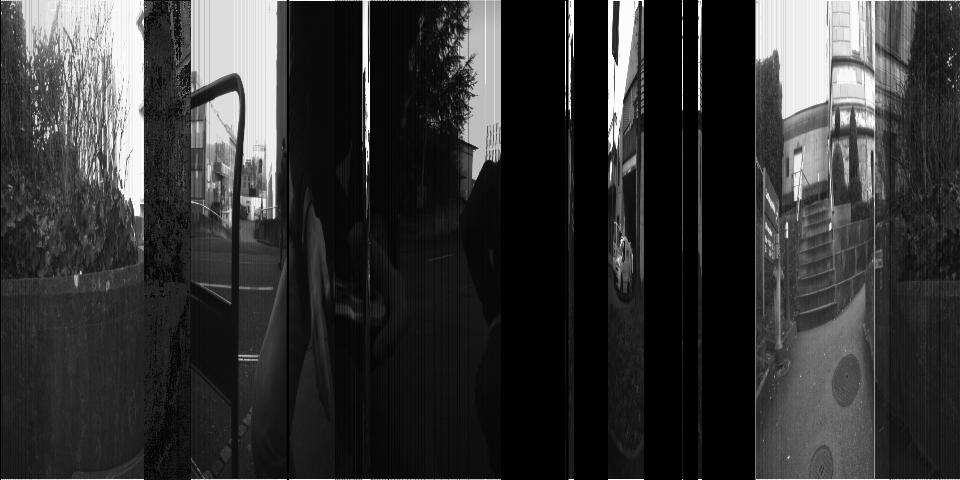
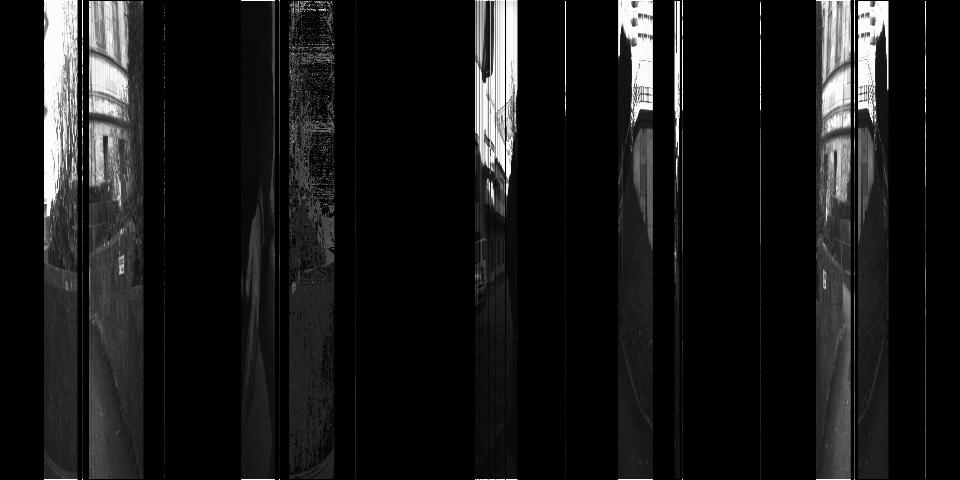
Julias clean up :), the back interpolation is commented at the moment

diff --git a/src/renderer.py b/src/renderer.py
@@ -47,92 +47,6 @@ class RendererODS():
 		
 		return theta_p
 
-		
-	def linearInterpolation(self, theta_0, theta_1,theta_a, theta_b):
-		diff_b1=theta_1-theta_b
-		diff_0a=theta_0-theta_a
-		diff_ba=theta_b-theta_a
-		diff_10=theta_0-theta_1
-		
-		theta_p=((diff_b1*theta_0)+(diff_0a*theta_1))/(diff_ba+diff_10)
-		
-		return theta_p
-	
-	def ourLinearInterpolation(self, rtheta_0, rtheta_1, rtheta_a, rtheta_b, theta_0, theta_1):
-		diff_b1=rtheta_b-rtheta_1
-		diff_0a=rtheta_0-rtheta_a
-		diff_ba=rtheta_b-rtheta_a
-		diff_01=rtheta_0-rtheta_1
-		
-		diff=np.abs(theta_0-theta_1)
-		
-		theta_p=((diff_b1*theta_0)+(diff_0a*theta_1))/(diff_ba+diff_01)
-		#theta_p=((diff_b1*diff)+(diff_0a*diff))/(diff_ba+diff_01)
-		while theta_p<-np.pi:
-			theta_p=theta_p+np.pi
-			
-		theta_p=np.pi+theta_p
-			
-		return theta_p
-	
-	def ourInterpolation(self, rtheta_0, rtheta_1, rtheta_a, rtheta_b, theta_0, theta_1):
-		factor1=(rtheta_a-rtheta_0)/rtheta_0
-		factor2=(rtheta_b-rtheta_1)/rtheta_1
-		theta_p =(((1+factor1)*theta_0)+((1-factor2)*theta_1))/((factor1+factor2))
-		return theta_p
-		
-	def myInterpolation(self, rtheta_0, rtheta_1, rtheta_a, rtheta_b, theta_0, theta_1, rtheta_0_cam1, rtheta_1_cam0):
-		factor1=np.abs((rtheta_a-rtheta_0)/(rtheta_1_cam0-rtheta_0))
-		factor2=np.abs((rtheta_b-rtheta_1)/(rtheta_0_cam1-rtheta_1))
-		#factor1=np.abs((rtheta_a-rtheta_0)/(rtheta_0-rtheta_1_cam0))
-		#factor2=np.abs((rtheta_b-rtheta_1)/(rtheta_0_cam1-rtheta_1))
-		
-		#theta_p =(((1+factor1)*(theta_1-theta_0))+((1-factor2)*(theta_1-theta_0)))/((factor1+factor2))
-		#theta_p=(((factor2*(theta_0-theta_1))+theta_1)+(theta_0-(factor1*(theta_0-theta_1))))/(theta_0-theta_1)
-		
-		factor3=factor1*(theta_0-theta_1)
-		factor4=factor2*(theta_0-theta_1)
-		
-		diff=theta_0+theta_1
-		abs=np.abs(diff)
-		#theta_p=((theta_1+factor3)+(theta_1+factor4))/(factor2+factor1)	#theta_p=((theta_0-(factor1*diff))+((factor2*diff)+theta_1))/(((factor1*diff)+factor2*diff))
-		#theta_p=(((1-factor3)*theta_0)+((factor4*theta_1)))/(factor3+factor4)
-		#theta_p=theta_1+(factor2*diff)
-		theta_p=theta_0-(factor1*abs)
-		
-		while theta_p<-np.pi:
-			theta_p=theta_p+np.pi
-			
-		theta_p=np.pi+theta_p
-			
-		
-		return theta_p
-
-
-	def interpolateLocal(self, cop_column0, cop_angle, pix_column0, width, fov, t0, pan_width):
-		add = True
-		if pix_column0 > width/2:
-			pix_c = pix_column0 - width/2
-		else:
-			add = False
-			pix_c = width/2 - pix_column0
-
-		delta = np.arctan(2*np.float32(pix_c)/np.float32(width) * np.tan(fov/2))
-
-		if not add:
-			D = fov/2 + delta
-			T = fov/2 - cop_angle
-			contrib1 = - (D-T)
-		else:
-			contrib1 = - (cop_angle - delta)
-
-		ncontrib1 = contrib1/fov
-		
-		g_skip = degree2Radians(pan_width/360.0)
-		contrib1 = ncontrib1*g_skip
-		avg = (contrib1+t0)
-		return avg
-
 	def normalizeThenInterpolate(self, t0, t1, ta, tb):
 		# handle special case of the discontinuity between 0 to 360 degrees
 		if abs(t0-t1) <= 270.0:
@@ -154,49 +68,6 @@ class RendererODS():
 			tps = self.linearInterpolation(t0s, t1s, tas, tbs)
 			tps = t0-(tps*drange)+360
 
-		#np.clip(tps, 0.0, 1.0)
-		#drange = t1-t0
-		#t0s = (t0-t0)/drange
-		#t1s = (t1-t0)/drange
-		#tas = (ta-t0)/drange
-		#tbs = (tb-t0)/drange
-		
-		#drange = t0-t1
-		#t0s = (t0-t0)/drange
-		#t1s = (t0-t1)/drange
-		#tas = (t0-ta)/drange
-		#tbs = (t0-tb)/drange
-
-		#tps = self.linearInterpolation(t0s, t1s, tas, tbs)
-		#tps = tps*drange + t1
-		#tps = tps*drange + t0
-
-		return tps
-		
-	def normalizeThenInterpolateFlipped(self, t0, t1, ta, tb):
-		drange = t0-t1
-		t0s = (t0-t0)/drange
-		t1s = (t0-t1)/drange
-		tas = (t0-ta)/drange
-		tbs = (t0-tb)/drange
-
-		tps = self.linearInterpolation(t0s, t1s, tas, tbs)
-		tps = tps*drange + t1
-		#tps = tps*drange + t0
-		#np.clip(tps, 0.0, 1.0)
-		return tps
-
-	def normalizeThenInterpolate2(self, t0, t1, ta, tb):
-		drange = t1-t0
-		t0s = (t0-t0)/drange
-		t1s = (t1-t0)/drange
-		tas = (ta-t0)/drange
-		tbs = (tb-t0)/drange
-
-		tps = self.linearInterpolation(t0s, t1s, tas, tbs)
-		tps = tps*drange + t1
-		#tps = tps*drange + t1
-		#np.clip(tps, 0.0, 1.0)
 		return tps
 		
 	def weightedAverage(self, rtheta_0, rtheta_1, rtheta_a, rtheta_b, theta_0, theta_1):
@@ -448,10 +319,8 @@ class RendererODS():
 				output_image[:, col_index, :] = image.getColumn(int(col_img))
 				#output_image[:, col_index, :] = [0, 0, 255]
 
-		#cameras=[0, 1, 2, 3, 4, 5, 6, 7, 8, 9, 0]
-		#cameras=[0, 1, 2, 3, 8, 9, 6, 7, 4, 5, 0]
-		cameras=[0, 5, 4, 7, 6, 9, 8, 3, 2, 1, 0]
-		#cameras=[0, 4, 6, 8, 2, 0]
+		cameras=[0, 1, 2, 3, 8, 9, 6, 7, 4, 5, 0]
+		#cameras=[0, 5, 4, 7, 6, 9, 8, 3, 2, 1, 0]
 
 		flows=[]
 		
@@ -470,10 +339,8 @@ class RendererODS():
 		all_flows=np.asarray(flows)
 		print(all_flows.shape)
 		
-		#view interpolation
-
-		#for i in range(num_cameras):
 		k=0
+		#view interpolation
 		for i in range(hahacams):
 
 			index0=cameras[i]
@@ -487,7 +354,6 @@ class RendererODS():
 			image1=self.image_list[index1].getImage()
 			
 			image_width=int(cam0.resolution[0])
-			
 			image_height=int(cam0.resolution[1])
 			
 			relative_theta_0=cam0.getCOPRelativeAngleLeft()
@@ -506,8 +372,7 @@ class RendererODS():
 			print("theta_0_degree")
 			print(theta_0)
 			print("theta_1_degree")
-			print(theta_1)
-			
+			print(theta_1)		
 			
 			
 			x0=int(round(cam0.getCOPLeft()[0]))
@@ -530,23 +395,17 @@ class RendererODS():
 			print('FOV Cam: ', radians2Degrees(field_of_view))
 
 
-			#for j in range(x0+1, image_width):
-			for j in range(0, x0):
-				#relative_theta_a=getRelativeAngle(cam0.resolution[0], cam_position0, j, cam0.favg, cam0.getFieldOfView())
+			for j in range(x0+1, image_width):
 				ray_a = cam0.getRayForPixel(j, 0)
-
 				ray_a = unit_vector(ray_a)
 				ray_a=np.append(ray_a,1)
 				global_ray_a=np.dot(cam0.extrinsics_absolute, ray_a)
 				global_ray_a_xz=np.asarray([global_ray_a[0], global_ray_a[2]])
 				theta_a = mapPointToPanaromaAngle(global_ray_a_xz, viewing_circle_centre, ipd, eye)
-				
-				#col_flows =all_flows[index0, :,  j, 1]
+
 				col_flows =all_flows[k, :,  j, 1]
 				sum=np.sum(col_flows)
 				avg=int(sum/image_height)
-				#print(avg)
-				# j_flowed=j-np.abs(avg)
 				j_flowed = j +avg
 				
 				ray_b = cam1.getRayForPixel(j_flowed, 0)
@@ -555,63 +414,34 @@ class RendererODS():
 				global_ray_b=np.dot(cam1.extrinsics_absolute, ray_b)
 				global_ray_b_xz=np.asarray([global_ray_b[0], global_ray_b[2]])
 				theta_b = mapPointToPanaromaAngle(global_ray_b_xz, viewing_circle_centre, ipd, eye)
-				
-				# print("theta_a")
-				# print(theta_b)
 
 				theta_a_degree=radians2Degrees360(theta_a)
-				#print('ta degrees', theta_a)
 				theta_b_degree=radians2Degrees360(theta_b)
-				#print('tb degrees', theta_b)
-				theta_p_degree=0.0
 				
-				if index0==4 or index0==9 or index0==1:
-					theta_p_degree = self.normalizeThenInterpolateFlipped(theta_0_degree, theta_1_degree, theta_b_degree, theta_a_degree)
-				else:
-				#	if index0==7:
-				#		theta_p_degree = self.normalizeThenInterpolateFlipped(theta_0_degree, theta_1_degree, theta_b_degree, theta_a_degree)
-				#	else:
-					theta_p_degree = self.normalizeThenInterpolate(theta_0_degree, theta_1_degree, theta_a_degree, theta_b_degree)
-				#theta_p_degree = self.normalizeThenInterpolate(theta_0_degree, theta_1_degree, theta_a_degree, theta_b_degree)
-				#theta_p_degree = self.jumpLinearInterpolation(theta_0_degree, theta_1_degree, theta_a_degree, theta_b_degree)
-				#print("theta_p")
-				#print(theta_p_degree)				
-				#print("\n")
+
+				theta_p_degree = self.normalizeThenInterpolate(theta_0_degree, theta_1_degree, theta_a_degree, theta_b_degree)
 				theta_p=degrees3602Radians(theta_p_degree)
 
 				x_i=thetaToNormalizedX(theta_p)
-				#print("x_i: ")
-				#print(x_i)
 				col_i=int(unnormalizeX(x_i, width))
 				image = self.image_list[index0]
 				if 0<j<image_width:
 					if 0<col_i<width:
-						if index0==0 or index0==4 or index0==6 or index0==8 or index0==3 or index0==2:
-						#if index0==0 or index0==5 or index0==6 or index0==8 or index0==3 or index0==2:
 							output_image[:, col_i, :] =(0.5*output_image[:, col_i, :])+(0.5*image.getColumn(j))
-							#output_image[:, col_i, :] = [255, 0, 0]
-						#else:
-							#output_image[:, col_i, :] = [0, 255, 0]
-							
-			
-			
-			for j in range(x1+1, image_width):
-			#for j in range(0, x0):
-				#relative_theta_a=getRelativeAngle(cam0.resolution[0], cam_position0, j, cam0.favg, cam0.getFieldOfView())
-				ray_a = cam1.getRayForPixel(j, 0)
 
+			
+			#We might have to change the interpolation formula for the backwards interpolation
+			for j in range(0, x0):
+				ray_a = cam1.getRayForPixel(j, 0)
 				ray_a = unit_vector(ray_a)
 				ray_a=np.append(ray_a,1)
 				global_ray_a=np.dot(cam1.extrinsics_absolute, ray_a)
 				global_ray_a_xz=np.asarray([global_ray_a[0], global_ray_a[2]])
 				theta_a = mapPointToPanaromaAngle(global_ray_a_xz, viewing_circle_centre, ipd, eye)
 				
-				#col_flows =all_flows[index0, :,  j, 1]
 				col_flows =all_flows[k, :,  j, 1]
 				sum=np.sum(col_flows)
 				avg=int(sum/image_height)
-				#print(avg)
-				# j_flowed=j-np.abs(avg)
 				j_flowed = j -avg
 				
 				ray_b = cam0.getRayForPixel(j_flowed, 0)
@@ -619,43 +449,20 @@ class RendererODS():
 				ray_b=np.append(ray_b,1)
 				global_ray_b=np.dot(cam0.extrinsics_absolute, ray_b)
 				global_ray_b_xz=np.asarray([global_ray_b[0], global_ray_b[2]])
-				theta_b = mapPointToPanaromaAngle(global_ray_b_xz, viewing_circle_centre, ipd, eye)
-				
-				
+				theta_b = mapPointToPanaromaAngle(global_ray_b_xz, viewing_circle_centre, ipd, eye)					
 
 				theta_a_degree=radians2Degrees360(theta_a)
-				#print('ta degrees', theta_a)
 				theta_b_degree=radians2Degrees360(theta_b)
-				#print('tb degrees', theta_b)
-				
-				if index0==4 or index0==9 or index0==1:
-					theta_p_degree = self.normalizeThenInterpolateFlipped(theta_0_degree, theta_1_degree, theta_b_degree, theta_a_degree)
-				else:
-				#	if index0==7:
-				#		theta_p_degree = self.normalizeThenInterpolate(theta_1_degree, theta_0_degree, theta_a_degree, theta_b_degree)
-				#	else:
-					theta_p_degree = self.normalizeThenInterpolate(theta_0_degree, theta_1_degree, theta_b_degree, theta_a_degree)
-				#theta_p_degree = self.normalizeThenInterpolateFlipped(theta_0_degree, theta_1_degree, theta_a_degree, theta_b_degree)
-				#theta_p_degree = self.jumpLinearInterpolation(theta_0_degree, theta_1_degree, theta_b_degree, theta_a_degree)
-				#print("theta_p")
-				#print(theta_p_degree)				
-				#print("\n")
+			
+				theta_p_degree = self.normalizeThenInterpolate(theta_0_degree, theta_1_degree, theta_b_degree, theta_a_degree)
 				theta_p=degrees3602Radians(theta_p_degree)
 
 				x_i=thetaToNormalizedX(theta_p)
-				#print("x_i: ")
-				#print(x_i)
 				col_i=int(unnormalizeX(x_i, width))
 				image = self.image_list[index0]
-				if 0<j<image_width:
-					if 0<col_i<width:
-						if index0==0 or index0==4 or index0==6 or index0==8 or index0==3 or index0==2:
-						#if index0==0 or index0== 5 or index0==6 or index0==8 or index0==3 or index0==2:
-							output_image[:, col_i, :] =(0.5*output_image[:, col_i, :])+(0.5*image.getColumn(j))
-			
-							
-			#output_image[:, x0_ODS, :] = [0, 0, 255]
-			#output_image[:, x1_ODS, :] = [0, 255, 0]	
+				#if 0<j<image_width:
+				#	if 0<col_i<width:
+							#output_image[:, col_i, :] =(0.5*output_image[:, col_i, :])+(0.5*image.getColumn(j))	
 			
 			k=k+1
 					
